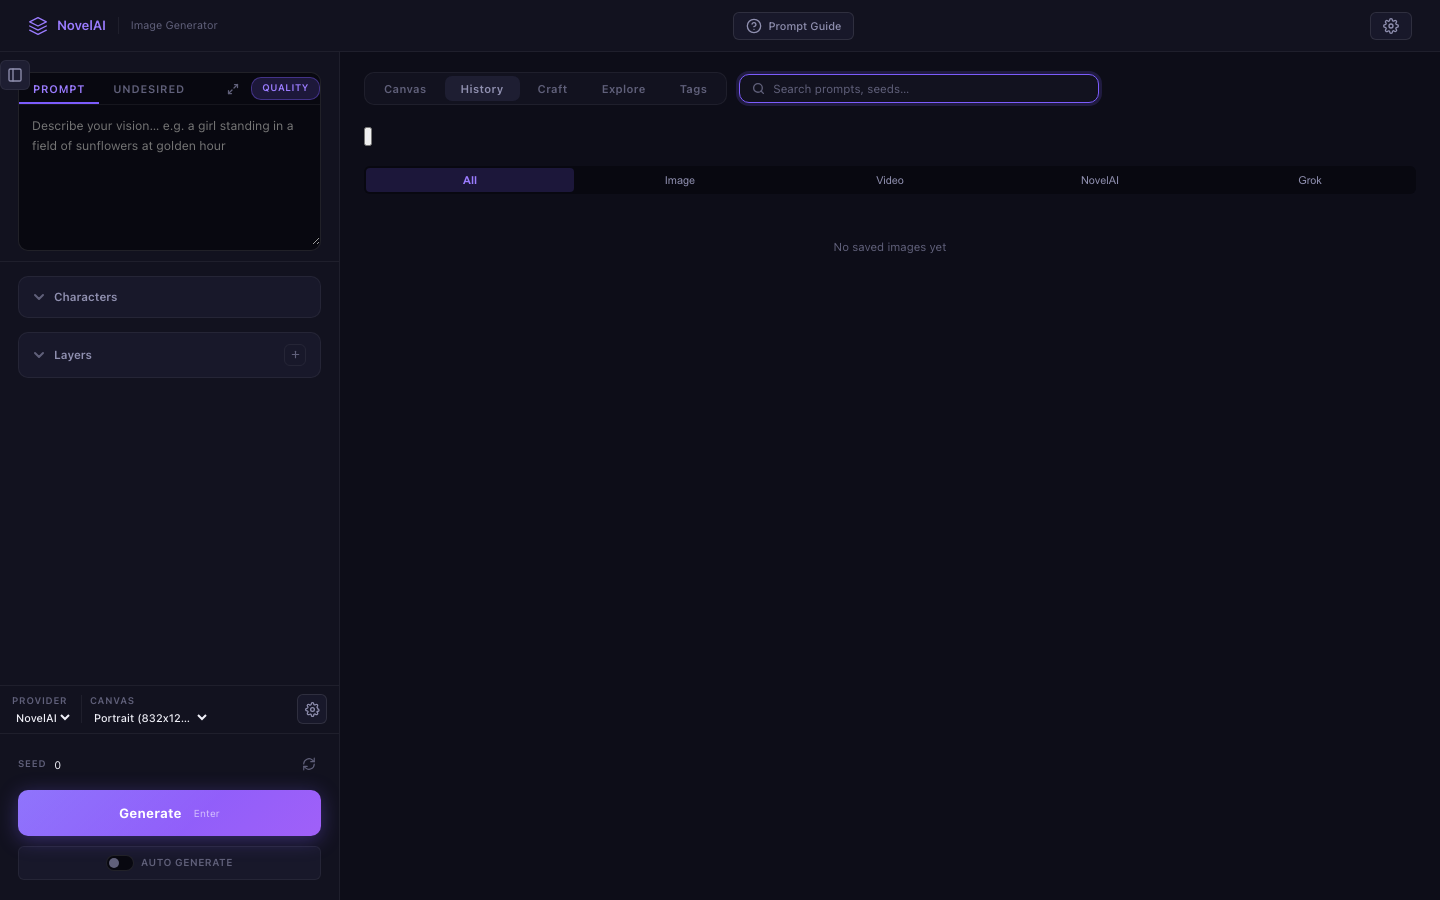
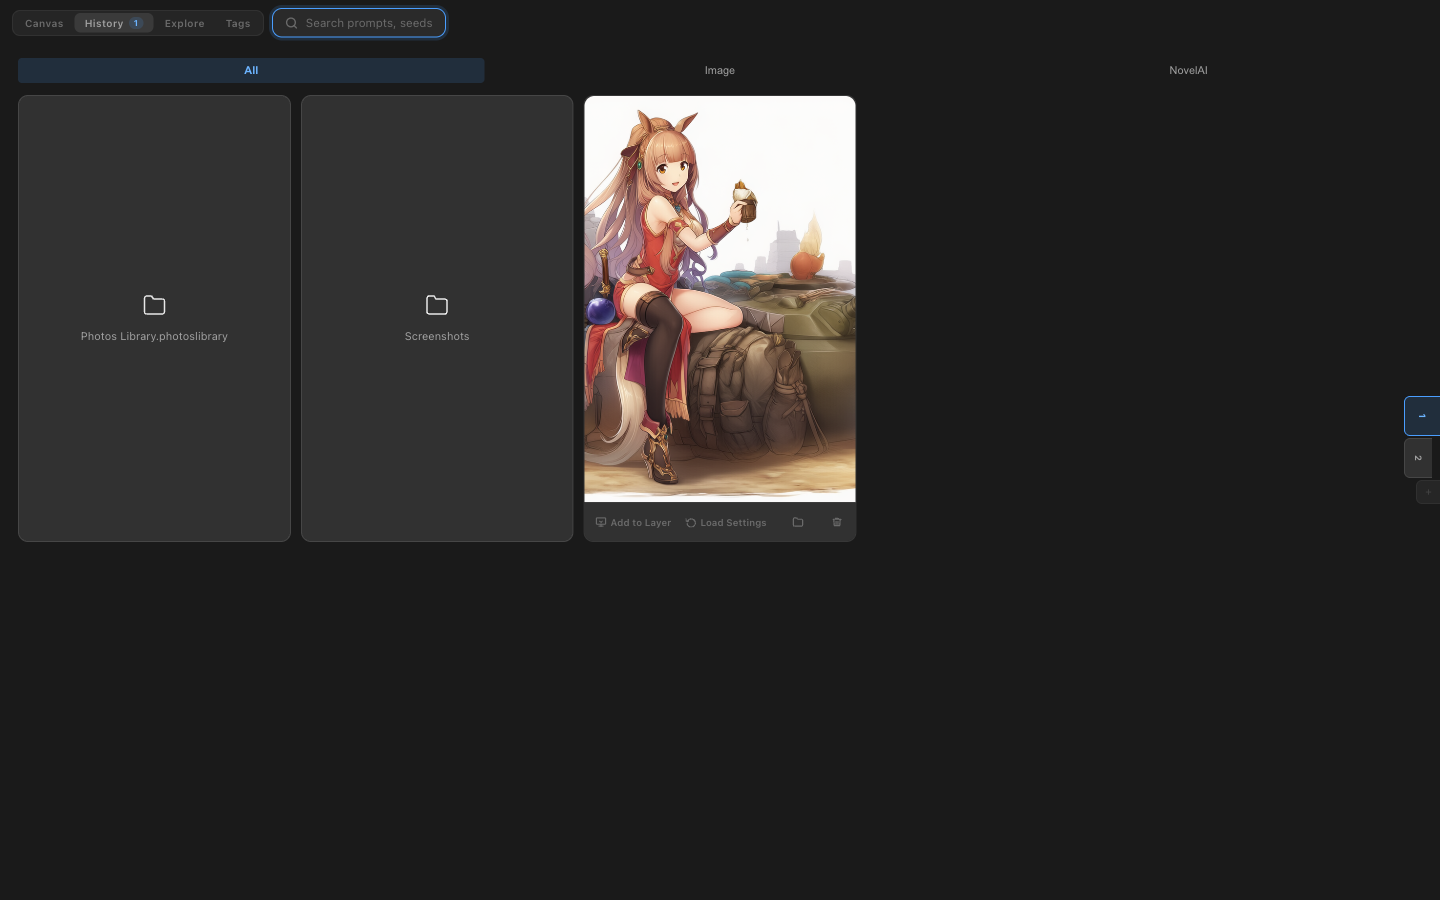
docs: update README screenshots for canvas-centric UI
Replace all old screenshots with current canvas-centric UI:
- main.png: fullscreen canvas with floating controls
- prompt-bar.png: expanded prompt bar with all controls
- gen-settings.png: settings popover (Steps, Scale, Style, I2I)
- character-popover.png: character marker with popover editor
- gallery.png: history tab with folders and image cards
- tag-intelligence.png: Tag Intelligence panel

Removed 11 obsolete screenshots (sidebar, tag-browser, craft-panel, etc.)

diff --git a/README.md b/README.md
@@ -6,6 +6,8 @@ A power-user frontend for [NovelAI](https://novelai.net/) and [xAI Grok](https:/
 >
 > This is the loop. Hundreds of times a day. Every click, every wait, every blank text box where autocomplete should be — that's friction. This app removes it.
 
+![Main interface — fullscreen canvas with floating prompt bar and character markers](docs/screenshots/main.png)
+
 ---
 
 ## 30 Seconds to Running
@@ -47,6 +49,8 @@ The entire screen is your canvas. No sidebar. All controls float on top with gla
 
 ### Prompt Bar
 
+![Expanded prompt bar with tabs, textarea, controls, and Generate button](docs/screenshots/prompt-bar.png)
+
 - **Collapsed**: one-line preview + Seed + Refine + Layer + Auto + Generate
 - **Expanded**: click to open full editor with PROMPT/UNDESIRED tabs, Quality/Enhance toggles, Optimize, AI Assist, History, provider/resolution selects, settings gear, seed control
 - **Auto-collapse**: bar collapses automatically after generation completes
@@ -63,6 +67,8 @@ Click **Optimize** to have Grok reorder, fix, and enhance your tags following No
 Changes are tracked in the **Tag Intelligence** panel (Tags tab) showing what was added/removed and new tag discoveries.
 
 ### Characters
+
+![Character popover editor with prompt textarea and interactions](docs/screenshots/character-popover.png)
 
 - Click **+Char** to add a character marker on canvas
 - Click any marker to open a **popover editor** with prompt textarea and interactions
@@ -85,6 +91,8 @@ Paper-edge tabs on the right side of canvas:
 
 ### Tag Intelligence
 
+![Tag Intelligence panel with What Changed, Discoveries, and Add Next sections](docs/screenshots/tag-intelligence.png)
+
 The Tags tab tracks your prompt evolution:
 - **What Changed**: diff of last Optimize/Refine showing added (green) and removed (red) tags
 - **New Discoveries**: tags you hadn't used before that AI introduced
@@ -92,6 +100,8 @@ The Tags tab tracks your prompt evolution:
 - **Add Next**: co-occurrence suggestions (boosters, contrasts, wildcards)
 
 ### Gallery
+
+![Gallery with folder navigation, image cards, and action buttons](docs/screenshots/gallery.png)
 
 Every generation auto-saves with full metadata in the PNG. The History tab lets you:
 - Browse all generations with filters (All/Image/Video/NovelAI/Grok)
@@ -102,6 +112,8 @@ Every generation auto-saves with full metadata in the PNG. The History tab lets 
 - Lightbox with slideshow mode
 
 ### Generation Settings
+
+![Settings popover with Style Reference, Quality, Advanced, and I2I controls](docs/screenshots/gen-settings.png)
 
 Click the gear icon to access:
 - **Style Reference**: upload vibe images to guide style
